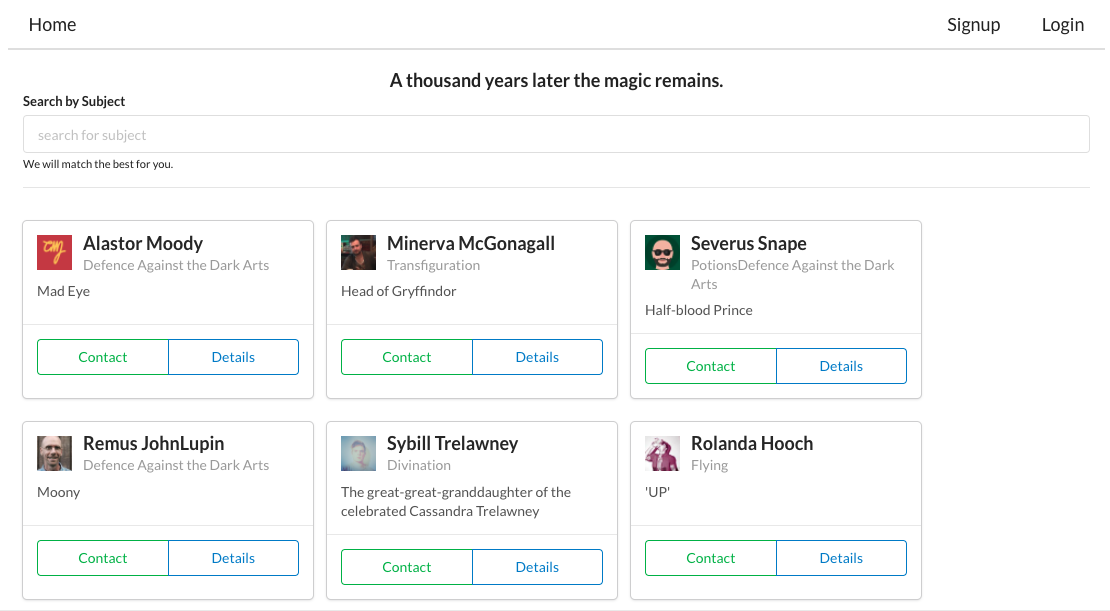
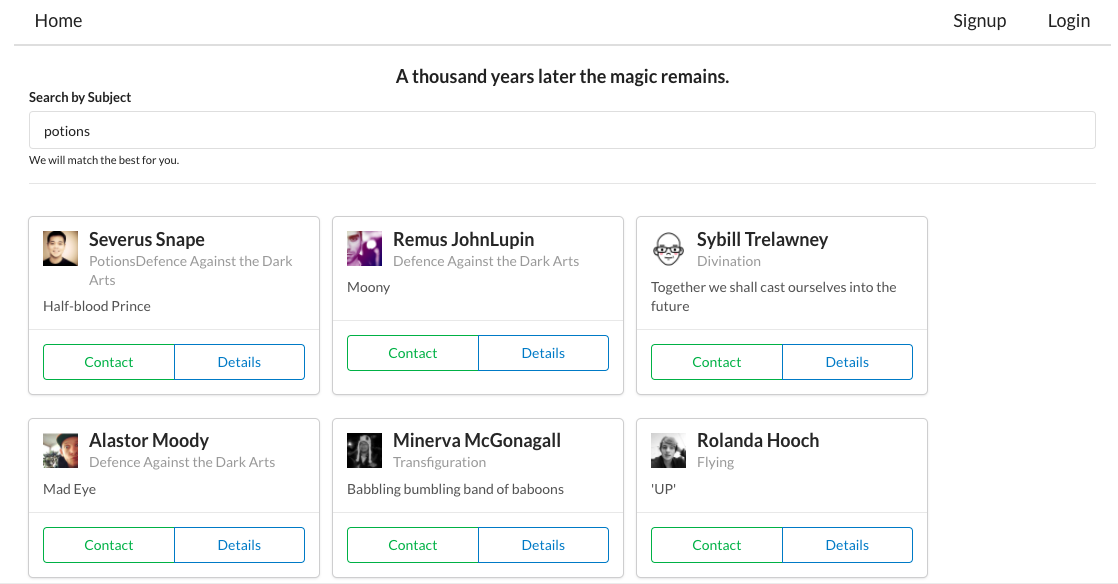
:package: added login page ui

diff --git a/studygeekreact/src/components/Login.js b/studygeekreact/src/components/Login.js
@@ -1,13 +1,52 @@
-import React from 'react';
-import Form from './Form'
+import React, {useState} from 'react';
+import axios from 'axios';
 
-function LogIn() {
-  return (
-    <div>
-        <h2>This is the Log in page. </h2>
-        <Form/>
-    </div>
-  );
+const LogIn = () => {
+    const [email, setEmail] = useState("");
+    const [password, setPassword] = useState("");
+
+    const submitInfo = async(event) =>{
+      event.preventDefault();
+      try {
+        const res = await axios.post('http://localhost:3003/login',{
+          'email': email,
+          'password': password
+        });
+      }catch(e){
+        console.log(e);
+      }
+    }
+
+    return (
+    <form className="ui form" onSubmit={submitInfo}>
+      <div className="field">
+        <label>Email</label>
+        <input 
+        type='email' 
+        name='email' 
+        placeholder='triddle@slytherin.edu' 
+        value={email} 
+        onChange={(e) => setEmail(e.target.value)}
+        />
+      </div>
+      <div className="field">
+        <label>Password</label>
+        <input 
+        type='password' 
+        name='password'  
+        value={password} 
+        onChange={(e) => setPassword(e.target.value)}
+        />
+      </div>
+      <div className="field">
+        <div className='ui checkbox'>
+        <input type='checkbox' tabIndex='0' />
+        <label>I solemnly swear that I am up to no good. </label>
+        </div>
+      </div>
+      <button className='ui button' type='submit'>Sign Up</button>
+    </form>
+    );
 }
 
 export default LogIn;

diff --git a/studygeekserver/tasks/seed.js b/studygeekserver/tasks/seed.js
@@ -43,13 +43,13 @@ tutorArray.push(Lupin)
 
 const Minerva = new Tutor({
     name:"Minerva McGonagall",
-    info: "Head of Gryffindor",
+    info: "Babbling bumbling band of baboons",
     subjects: ["Transfiguration"]
 })
 tutorArray.push(Minerva)
 const Sybill = new Tutor({
     name:"Sybill Trelawney",
-    info:"The great-great-granddaughter of the celebrated Cassandra Trelawney",
+    info:"Together we shall cast ourselves into the future",
     subjects: ["Divination"]
 })
 tutorArray.push(Sybill)
